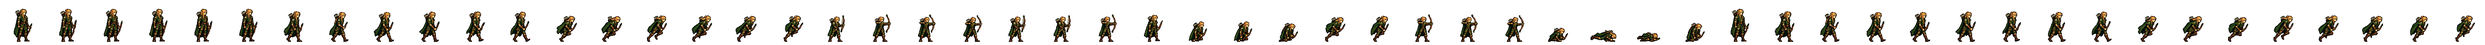
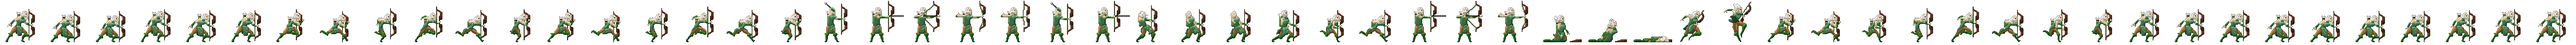
Arqueiro passa a ser a Caçadora (Huntress 2, CC0) com sombreado extra e contorno leve
Claude-Session: https://claude.ai/code/session_019r29ZVD3cqF2PF6pdahmsD

Changed region(s): [[0.0, 0.125, 1.0, 0.9375]]

diff --git a/Projeto atualizado/sw.js b/Projeto atualizado/sw.js
@@ -1,4 +1,4 @@
-const CACHE = "ded-web-v4.46.2-arqueiro-andar";
+const CACHE = "ded-web-v4.47.0-cacadora";
 
 self.addEventListener("install", () => self.skipWaiting());
 

diff --git a/sw.js b/sw.js
@@ -1,4 +1,4 @@
-const CACHE = "ded-web-v4.46.2-arqueiro-andar";
+const CACHE = "ded-web-v4.47.0-cacadora";
 
 self.addEventListener("install", () => self.skipWaiting());
 

diff --git a/scripts/build_huntress_archer.py b/scripts/build_huntress_archer.py
@@ -1,0 +1,183 @@
+"""
+Arqueiro = Caçadora (pacote "Huntress 2", CC0) com detalhes extras.
+
+A arte original tem só ~36 px de altura. Para ficar do tamanho dos outros heróis
+sem "pixelzão":
+  1) amplia 4x com Scale2x duas vezes (suaviza a escadinha sem borrar);
+  2) reduz para ~94 px (resolução dobrada do jogo — mesmo esquema do elfo);
+  3) repinta com volume: luz do alto-esquerda em faixas, sombra fria/luz quente,
+     oclusão nos pés e brilho de borda;
+  4) contorno LEVE: só a borda externa fica um tom mais escuro da própria cor.
+
+Uso: python3 scripts/build_huntress_archer.py "<pasta Huntress 2>"
+"""
+import colorsys
+import json
+import os
+import sys
+
+import numpy as np
+from PIL import Image
+from scipy import ndimage
+
+sys.path.insert(0, os.path.dirname(os.path.abspath(__file__)))
+from enhance_pixel_sprite import scale2x  # noqa: E402
+
+ROOT = os.path.dirname(os.path.dirname(os.path.abspath(__file__)))
+OUTS = [os.path.join(ROOT, "assets", "pixel-art", "characters"),
+        os.path.join(ROOT, "Projeto atualizado", "assets", "pixel-art", "characters")]
+SRC = os.path.join(sys.argv[1], "Sprites")
+FOOT, CX = 119, 62
+TARGET_H = 94
+ORDER = ["idle0", "idle1", "idle2", "idle3", "idlevar0", "idlevar1", "walk0", "walk1", "walk2", "walk3", "walk4", "walk5",
+         "run0", "run1", "run2", "run3", "run4", "run5", "windupA", "windup", "hitA", "hit", "recovery", "guardStart", "guard",
+         "hurt", "hurtB", "stunA", "stunB", "dashA", "dash", "castA", "cast", "castC", "deathA", "deathB", "deathC", "upA", "upB"]
+
+
+def strip(name):
+    im = Image.open(os.path.join(SRC, "Character", name + ".png")).convert("RGBA")
+    return [im.crop((i * 100, 0, i * 100 + 100, 100)) for i in range(im.width // 100)]
+
+
+A = {n: strip(n) for n in ["Idle", "Run", "Attack", "Get Hit", "Death", "Jump", "Fall"]}
+idle_h = max(f.getbbox()[3] - f.getbbox()[1] for f in A["Idle"])
+K = TARGET_H / idle_h           # fator final (~2.6)
+
+
+def shift(rgb, f):
+    r, g, b = [x / 255 for x in rgb]
+    h, s, v = colorsys.rgb_to_hsv(r, g, b)
+    if f < 0:
+        h = h + ((0.66 if h > .2 else 0.62) - h) * min(.15, -f * .3)
+        s = min(1, s * (1 - f * .2))
+        v = v * (1 + f * .5)
+    else:
+        h = h + ((0.12 if h < .6 else 1.12) - h) * min(.1, f * .2)
+        s = s * (1 - f * .2)
+        v = min(1, v * (1 + f * .4) + f * .05)
+    rr, gg, bb = colorsys.hsv_to_rgb(h % 1, max(0, min(1, s)), max(0, min(1, v)))
+    return np.array([rr * 255, gg * 255, bb * 255])
+
+
+def detail(cell):
+    """cell 100x100 → RGBA na resolução dobrada, com volume e contorno leve"""
+    a = np.asarray(cell).copy()
+    a[..., 3] = np.where(a[..., 3] > 100, 255, 0)
+    src_rgb = a[..., :3].copy()
+    big = scale2x(scale2x(a))                                    # 400x400, bordas suaves
+    keys_big = scale2x(scale2x(np.dstack([src_rgb, a[..., 3:]])))
+    out_size = round(400 * K / 4)
+    al = Image.fromarray(big).resize((out_size, out_size), Image.NEAREST)
+    arr = np.asarray(al).astype(float)
+    alpha = arr[..., 3] > 0
+    H, W = alpha.shape
+    rgb = arr[..., :3]
+    key = (rgb[..., 0].astype(int) << 16) | (rgb[..., 1].astype(int) << 8) | rgb[..., 2].astype(int)
+    # altura = silhueta geral + volume de cada mancha de cor
+    hgt = ndimage.gaussian_filter(alpha.astype(float), 4) * .5
+    loc = np.zeros((H, W))
+    for k in np.unique(key[alpha]):
+        m = (key == k) & alpha
+        lab, n = ndimage.label(m)
+        for i in range(1, n + 1):
+            mi = lab == i
+            if mi.sum() < 6:
+                continue
+            loc[mi] = ndimage.gaussian_filter(mi.astype(float), 2.2)[mi]
+    hgt += loc * .5
+    gy, gx = np.gradient(hgt)
+    lit = -(gx * -.62 + gy * -.78) * 13
+    rows = np.where(alpha.any(1))[0]
+    if len(rows):
+        y0, y1 = rows.min(), rows.max()
+        yy = np.clip((np.arange(H)[:, None] - y0) / max(1, y1 - y0), 0, 1)
+        lit = lit - np.clip(yy - .78, 0, 1) * 1.3
+    out = arr.copy()
+    q = np.round(np.clip(lit, -1.4, 1.1) * 2.2) / 2.2
+    for y, x in zip(*np.nonzero(alpha & (np.abs(q) >= .2))):
+        out[y, x, :3] = shift(rgb[y, x], q[y, x] * .65)
+    # brilho de borda (alto/esquerda)
+    up = np.zeros_like(alpha); up[1:] = alpha[:-1]
+    lf = np.zeros_like(alpha); lf[:, 1:] = alpha[:, :-1]
+    rim = alpha & (~up | ~lf)
+    for y, x in zip(*np.nonzero(rim)):
+        if rgb[y, x].sum() > 120:
+            out[y, x, :3] = shift(out[y, x, :3], .35)
+    # contorno leve: borda externa = mesma cor, ~40% mais escura
+    edge = alpha & ~ndimage.binary_erosion(alpha)
+    out[edge, :3] = out[edge, :3] * .45
+    out[..., 3] = np.where(alpha, 255, 0)
+    return Image.fromarray(np.clip(out, 0, 255).astype(np.uint8))
+
+
+def place(img, ref_cx=None):
+    bb = img.getbbox()
+    crop = img.crop(bb)
+    if ref_cx is None:
+        al = np.asarray(crop)[..., 3] > 0
+        ys, xs = np.nonzero(al[int(al.shape[0] * .45):])
+        ref_cx = float(np.median(xs))
+    else:
+        ref_cx = ref_cx - bb[0]
+    o = Image.new("RGBA", (128, 128))
+    o.alpha_composite(crop, (round(CX - ref_cx), FOOT - crop.height + 1))
+    return o
+
+
+# centro de referência: tronco do quadro parado (mesmo para todas as animações → nada "pula")
+D = {n: [detail(f) for f in fr] for n, fr in A.items()}
+ref = D["Idle"][0]
+bb = ref.getbbox()
+al = np.asarray(ref)[..., 3] > 0
+ys, xs = np.nonzero(al[bb[1] + int((bb[3] - bb[1]) * .2):bb[1] + int((bb[3] - bb[1]) * .55)])
+REF_X = float(np.median(xs))
+
+idle, run, atk, hit, death, jump, fall = (D[n] for n in ["Idle", "Run", "Attack", "Get Hit", "Death", "Jump", "Fall"])
+pick = {
+    "idle0": idle[0], "idle1": idle[3], "idle2": idle[5], "idle3": idle[8], "idlevar0": idle[2], "idlevar1": idle[7],
+    **{f"walk{i}": run[c] for i, c in enumerate([0, 1, 3, 4, 5, 7])},
+    **{f"run{i}": run[c] for i, c in enumerate([0, 1, 3, 4, 5, 7])},
+    "windupA": atk[1], "windup": atk[2], "hitA": atk[3], "hit": atk[4], "recovery": atk[5],
+    "guardStart": atk[1], "guard": atk[2],
+    "hurt": hit[0], "hurtB": hit[1], "stunA": hit[1], "stunB": hit[2],
+    "dashA": run[2], "dash": run[5],
+    "castA": atk[2], "cast": atk[3], "castC": atk[4],
+    "deathA": death[3], "deathB": death[6], "deathC": death[9],
+    "upA": jump[0], "upB": fall[0],
+}
+frames = [place(pick[k], REF_X) for k in ORDER]
+EXTRA = len(frames)
+frames += [place(f, REF_X) for f in run] + [place(f, REF_X) for f in idle]
+top = min(f.getbbox()[1] for f in frames[:4])
+h = FOOT - top
+n = len(frames)
+HIRES = 68 / h
+hb = round(22 / HIRES)
+# rosto: ponto mais alto da cabeça + deslocado para a frente
+upd = {"scale": round(.69 * 68 / h, 3), "footY": FOOT, "hires": round(HIRES, 3),
+       "pcrop": [CX - hb // 2 + 6, top - 1, hb, hb],
+       "anchors": [[CX + 22, top + int(h * .4)]] * n, "torso": [[CX, top + int(h * .5)]] * n,
+       "head": [[CX + 3, top + int(h * .12)]] * n}
+sheet = Image.new("RGBA", (128 * n, 128))
+for i, f in enumerate(frames):
+    sheet.alpha_composite(f, (i * 128, 0))
+for o in OUTS:
+    if not os.path.isdir(o):
+        continue
+    sheet.save(os.path.join(o, "archer-pack-body.png"))
+    for t in range(5):
+        sheet.save(os.path.join(o, f"archer-pack-t{t}-body.png"))
+    jp = os.path.join(o, "archer-pack.json")
+    if os.path.exists(jp):
+        lay = json.load(open(jp))
+        lay.update(upd)
+        lay["map"]["walk"] = list(range(EXTRA, EXTRA + 8))
+        lay["map"]["run"] = list(range(EXTRA, EXTRA + 8))
+        json.dump(lay, open(jp, "w"), separators=(",", ":"))
+# flecha do pacote
+ar = Image.open(os.path.join(SRC, "Arrow", "Static.png")).convert("RGBA")
+ar = ar.crop(ar.getbbox())
+ar.resize((ar.width * 3 // 4 if ar.width > 20 else ar.width, max(3, ar.height * 3 // 4)), Image.NEAREST)\
+  .save(os.path.join(ROOT, "assets", "pixel-art", "characters", "proj-elf-arrow.png"))
+sheet.resize((sheet.width // 2, 64), Image.NEAREST).save(os.path.join(ROOT, "scripts", "huntress_preview.png"))
+print("caçadora: altura", h, "escala", upd["scale"], "hires", upd["hires"])
